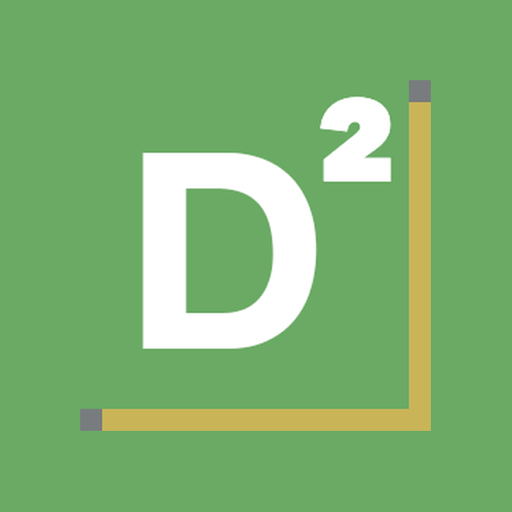
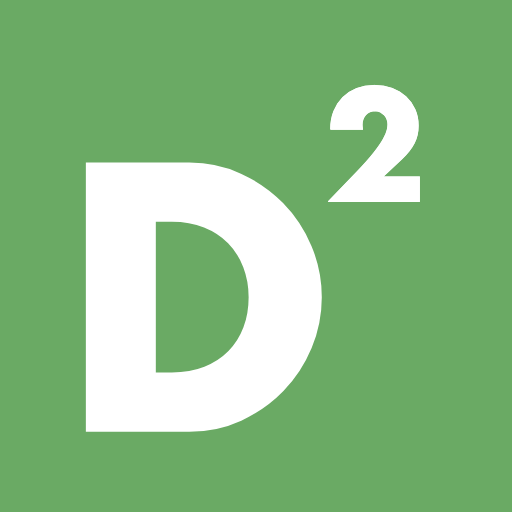
番号一覧の整列と並び順を修正し、PWAアイコンを緑一色のD2に刷新

Changed region(s): [[0.1562, 0.1562, 0.8438, 0.8438]]

diff --git a/DWORDle2/tools/app-icon.html b/DWORDle2/tools/app-icon.html
@@ -1,0 +1,56 @@
+<!DOCTYPE html>
+<html lang="ja">
+<head>
+<meta charset="utf-8">
+<title>DWORDle 2 app icon</title>
+<style>
+  /* PWA のインストールアイコン（icon-*.png / icon-maskable-*.png）。
+     tools/make-app-icons.mjs がスクリーンショットして書き出す。
+
+     ホーム画面では小さく表示され、maskable では任意の形に切り抜かれるので、
+     favicon / OGP と違って L 字の帯やキャップは置かず、緑一色 + 白い D² だけにする。
+
+     ジオメトリは favicon.png / tools/og-square.html と同じ比率をそのまま使い
+     （書体は Futura 700、D と 2 は独立配置）、最後に D² のインク全体を
+     キャンバス中央へ寄せている。--art-scale は maskable のセーフゾーン用。 */
+  :root {
+    --bg: #6aaa64; /* 地の緑（クラシック配色の correct と同じ） */
+    /* D² のインク中心をキャンバス中心へ合わせる補正（キャンバス比） */
+    --shift-x: -3.15%;
+    --shift-y: 9.35%;
+    --art-scale: 1;
+  }
+  * { margin: 0; padding: 0; box-sizing: border-box; }
+  body {
+    width: 100vw;
+    height: 100vh;
+    overflow: hidden;
+    position: relative;
+    background: var(--bg);
+    font-family: Futura, "Avenir Next", "Helvetica Neue", Helvetica, sans-serif;
+  }
+  .art {
+    position: absolute;
+    inset: 0;
+    transform: translate(var(--shift-x), var(--shift-y)) scale(var(--art-scale));
+    transform-origin: 50% 50%;
+  }
+  /* 白い D²。D と 2 は独立に配置する（肩付き文字の位置を favicon と揃えるため） */
+  .glyph {
+    position: absolute;
+    color: #fff;
+    font-weight: 700;
+    line-height: 1;
+    white-space: pre;
+  }
+  .glyph.d { left: 12.142%; top: 10.692%; font-size: 74.167vw; }
+  .glyph.two { left: 67.492%; top: 1.108%; font-size: 31.25vw; }
+</style>
+</head>
+<body>
+  <div class="art">
+    <div class="glyph d">D</div>
+    <div class="glyph two">2</div>
+  </div>
+</body>
+</html>

diff --git a/DWORDle2/js/ui/title-screen.js b/DWORDle2/js/ui/title-screen.js
@@ -41,13 +41,12 @@ function randomPID(lo, hi, mode) {
   return lo + Math.floor(Math.random() * (hi - lo + 1));
 }
 
-// 番号の割り当て表。No. の小さい順に並べ、レベル帯は名前と語彙の説明まで出す。
-// 帯の定義は LEVELS が唯一の情報源なので、レベルを増減しても表がそのまま追従する。
+// 番号の割り当て表。デイリーを先頭に、あとはレベル順（Lv.1→Lv.6）で並べる。
+// 左右の列を通しで揃えるため、行ラッパーを作らず 2 列グリッドへ直接並べる。
 function numberGuide() {
-  const row = (range, name, desc) =>
-    el(
-      "div",
-      { class: "number-guide-row" },
+  const cells = [];
+  const addRow = (range, name, desc) => {
+    cells.push(
       el("span", { class: "number-guide-range" }, range),
       el(
         "span",
@@ -56,18 +55,17 @@ function numberGuide() {
         desc ? el("span", { class: "number-guide-desc" }, desc) : null
       )
     );
-  const levelRows = LEVELS.slice()
-    .sort((a, b) => a.range[0] - b.range[0])
-    .map((level) => {
-      const localized = localizedLevel(level);
-      return row(`No.${level.range[0]}-${level.range[1]}`, `Lv.${level.id} ${localized.name}`, localized.desc);
-    });
-  return el(
-    "div",
-    { class: "number-guide" },
-    row("No.0", tr("今日のデイリー問題", "Today's Daily puzzle"), tr("毎日 0 時に切り替わる共通問題", "A shared puzzle that changes at midnight")),
-    ...levelRows
+  };
+  addRow(
+    "No.0",
+    tr("今日のデイリー問題", "Today's Daily puzzle"),
+    tr("毎日 0 時に切り替わる共通問題", "A shared puzzle that changes at midnight")
   );
+  for (const level of LEVELS.slice().sort((a, b) => a.id - b.id)) {
+    const localized = localizedLevel(level);
+    addRow(`No.${level.range[0]}-${level.range[1]}`, `Lv.${level.id} ${localized.name}`, localized.desc);
+  }
+  return el("div", { class: "number-guide" }, cells);
 }
 
 function numberPrompt(mode) {

diff --git a/DWORDle2/css/style.css b/DWORDle2/css/style.css
@@ -1143,17 +1143,19 @@ body.theme-cyber .modal {
    説明は 1 段落として小さく添える */
 .number-guide {
   margin-top: 12px;
-  display: flex;
-  flex-direction: column;
-}
-.number-guide-row {
   display: grid;
-  grid-template-columns: minmax(0, auto) minmax(0, 1fr);
-  gap: 2px 10px;
+  /* 左列は全行で同じ幅にして、右カラムの開始位置を縦に揃える */
+  grid-template-columns: max-content minmax(0, 1fr);
+  /* 区切り線を左右で途切れさせないため、間隔は gap ではなく左列の padding で取る */
+  column-gap: 0;
+}
+.number-guide-range,
+.number-guide-label {
   padding: 7px 0;
   border-top: 1px solid var(--border);
 }
-.number-guide-row:first-child {
+.number-guide-range:first-child,
+.number-guide-range:first-child + .number-guide-label {
   border-top: 0;
 }
 .number-guide-range {
@@ -1162,7 +1164,10 @@ body.theme-cyber .modal {
   font-weight: 700;
   font-variant-numeric: tabular-nums;
   white-space: nowrap;
-  align-self: center;
+  align-self: stretch;
+  display: flex;
+  align-items: center;
+  padding-right: 12px;
 }
 .number-guide-label {
   display: flex;

diff --git a/DWORDle2/sw.js b/DWORDle2/sw.js
@@ -2,7 +2,7 @@
 // DWORDle 2 の Service Worker。全資産をインストール時に事前キャッシュし、
 // オフラインでも完全動作させる（キャッシュ優先 + ネットワークフォールバック）。
 // キャッシュ名はソースハッシュ入りで、デプロイのたびに新しいキャッシュへ入れ替わる。
-const CACHE_NAME = "dwordle2-f5f7a1c7";
+const CACHE_NAME = "dwordle2-a3d143ef";
 const PRECACHE = [
   "./",
   "index.html",

diff --git a/DWORDle2/js/version.js b/DWORDle2/js/version.js
@@ -1,3 +1,3 @@
 // 自動生成ファイル。tools/make-source-hash.mjs が書き出す（手で編集しない）。
 // DWORDle2 のソースコード（index.html + css/** + js/**、このファイルを除く）のハッシュ。
-export const SOURCE_HASH = "f5f7a1c7";
+export const SOURCE_HASH = "a3d143ef";
